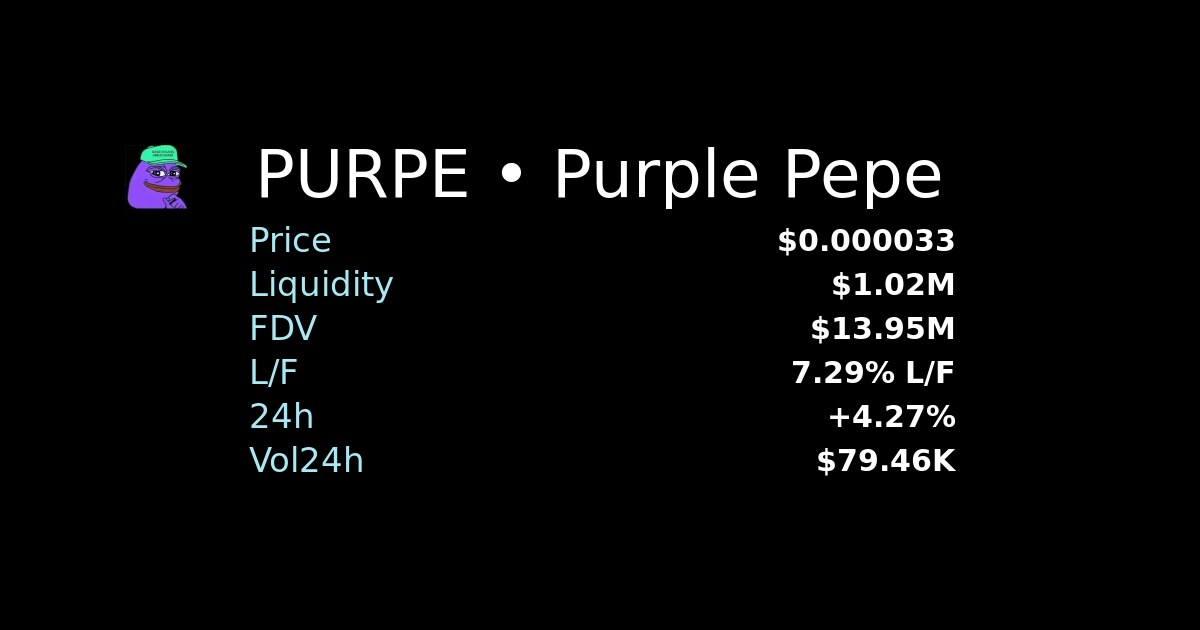
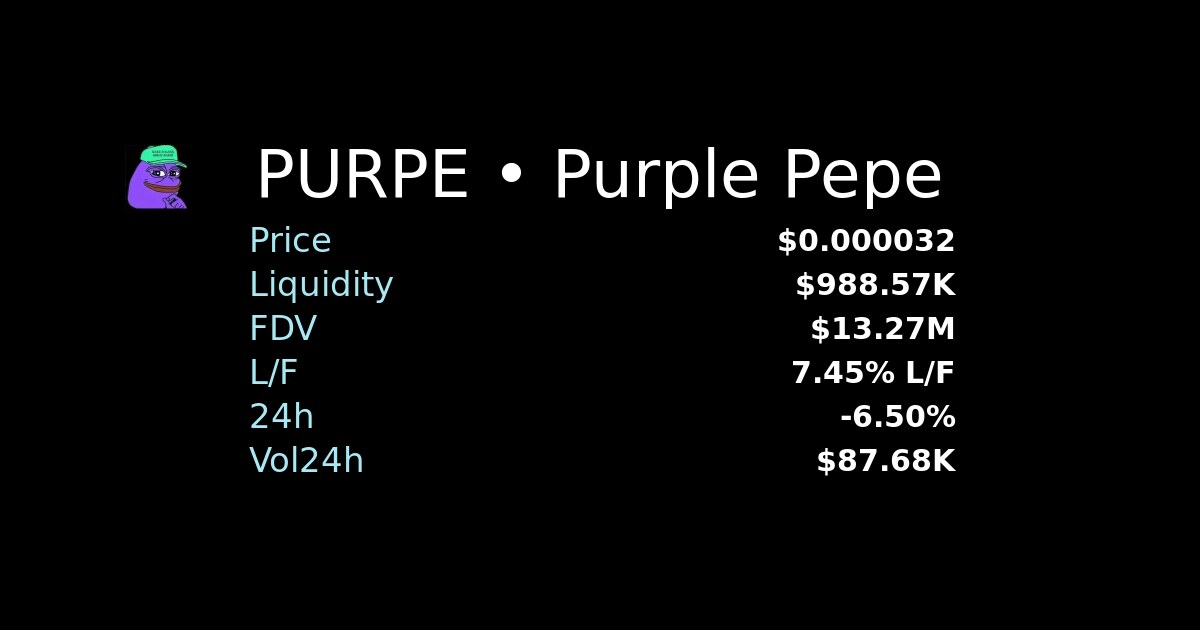
chore: update sitemap & token pages

diff --git a/token/HBoNJ5v8g71s2boRivrHnfSB5MVPLDHHyVjruPfhGkvL/index.html b/token/HBoNJ5v8g71s2boRivrHnfSB5MVPLDHHyVjruPfhGkvL/index.html
@@ -4,14 +4,14 @@
     <meta charset="utf-8" />
     <meta name="viewport" content="width=device-width,initial-scale=1" />
     <title>PURPE on Solana</title>
-    <meta name="description" content="Purple Pepe • Price: $0.000033 • Liquidity: $1.02M" />
+    <meta name="description" content="Purple Pepe • Price: $0.000032 • Liquidity: $988.57K" />
     <meta name="author" content="builders-toronto" />
     <meta name="keywords" content="solana, memecoin, bonk, wif, dog, inu, pepe, cat, meme, ponk, samo, purry, purr, kitty, meow, woof, frog, snek, toad, bob, dino, monke, monkey, ape, corgi, floki, elon" />
 
     <!-- OG -->
     <meta property="og:type" content="website" />
     <meta property="og:title" content="PURPE on Solana" />
-    <meta property="og:description" content="Purple Pepe • Price: $0.000033 • Liquidity: $1.02M" />
+    <meta property="og:description" content="Purple Pepe • Price: $0.000032 • Liquidity: $988.57K" />
     <meta property="og:url" content="https://fdv.lol/token/HBoNJ5v8g71s2boRivrHnfSB5MVPLDHHyVjruPfhGkvL" />
     <meta property="og:image" content="https://fdv.lol/token/HBoNJ5v8g71s2boRivrHnfSB5MVPLDHHyVjruPfhGkvL/og.jpg" />
     <meta property="og:image:width" content="1200" />
@@ -21,7 +21,7 @@
     <!-- Twitter -->
     <meta name="twitter:card" content="summary_large_image" />
     <meta name="twitter:title" content="PURPE on Solana" />
-    <meta name="twitter:description" content="Purple Pepe • Price: $0.000033 • Liquidity: $1.02M" />
+    <meta name="twitter:description" content="Purple Pepe • Price: $0.000032 • Liquidity: $988.57K" />
     <meta name="twitter:image" content="https://fdv.lol/token/HBoNJ5v8g71s2boRivrHnfSB5MVPLDHHyVjruPfhGkvL/og.jpg" />
 
     <link rel="icon" type="image/png" href="/src/assets/images/icons/fdv.lol.ico" />
@@ -35,7 +35,7 @@
       "@type": "WebSite",
       "name": "PURPE on Solana",
       "url": "https://fdv.lol/token/HBoNJ5v8g71s2boRivrHnfSB5MVPLDHHyVjruPfhGkvL",
-      "description": "Purple Pepe • Price: $0.000033 • Liquidity: $1.02M",
+      "description": "Purple Pepe • Price: $0.000032 • Liquidity: $988.57K",
       "keywords": [
         "solana",
         "memecoin",
